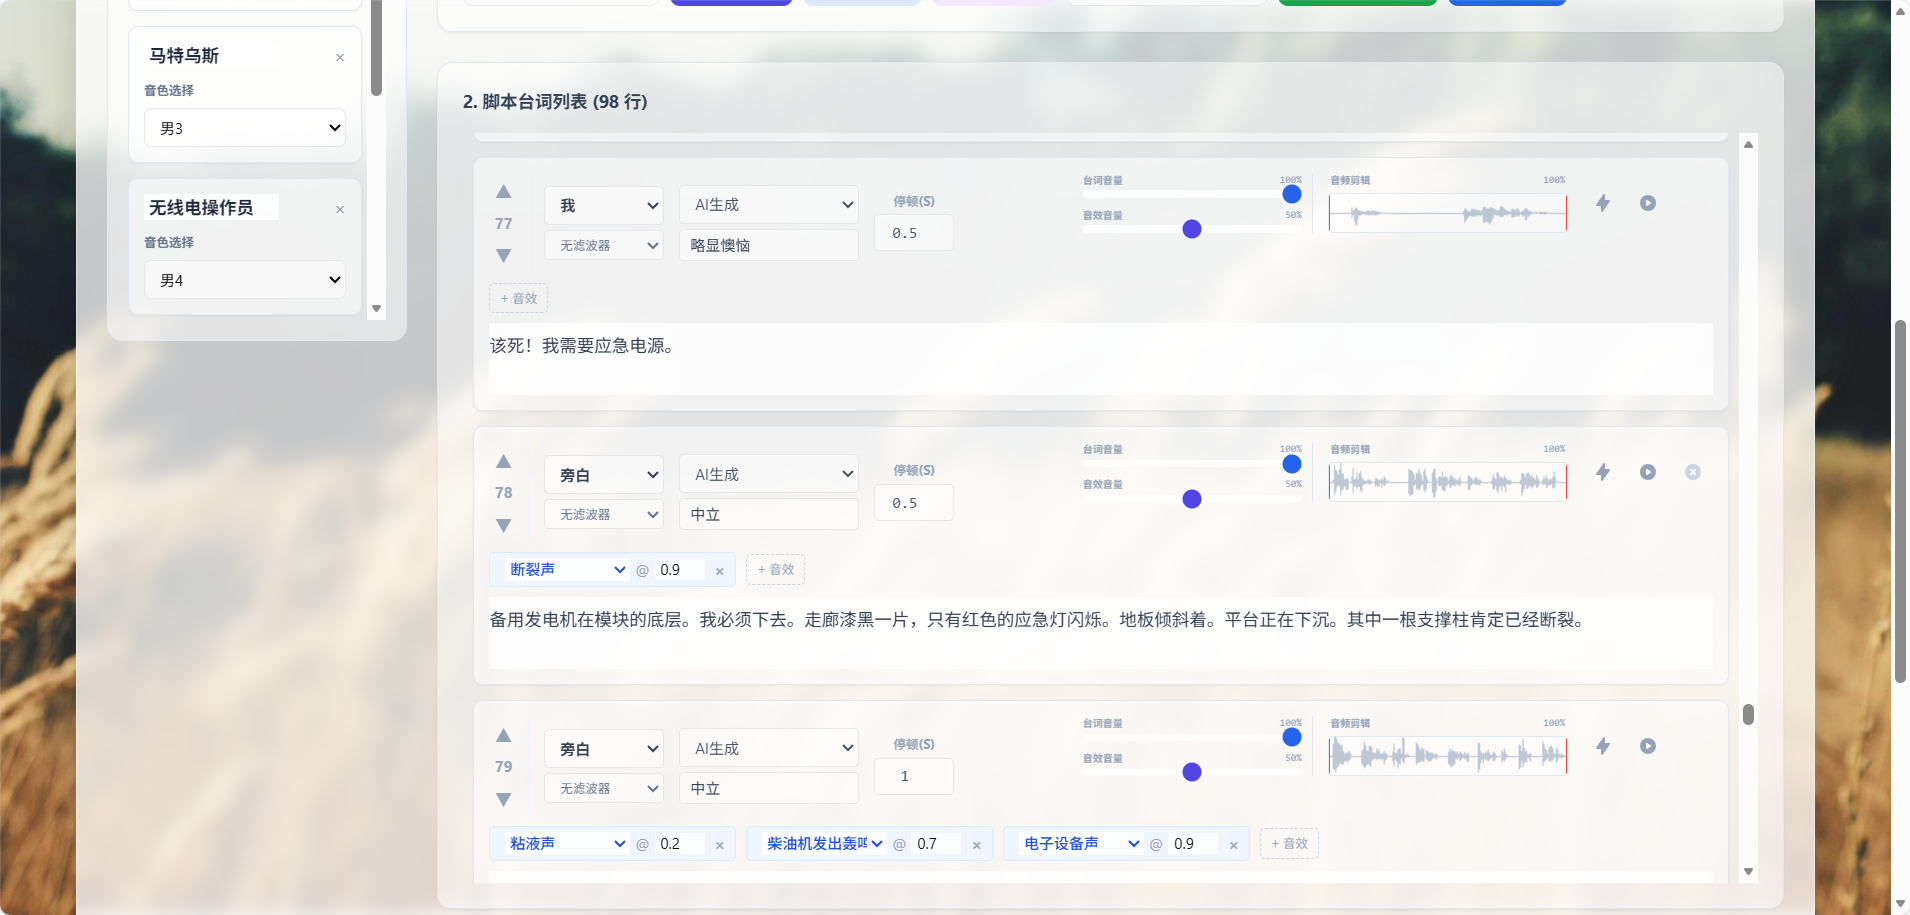
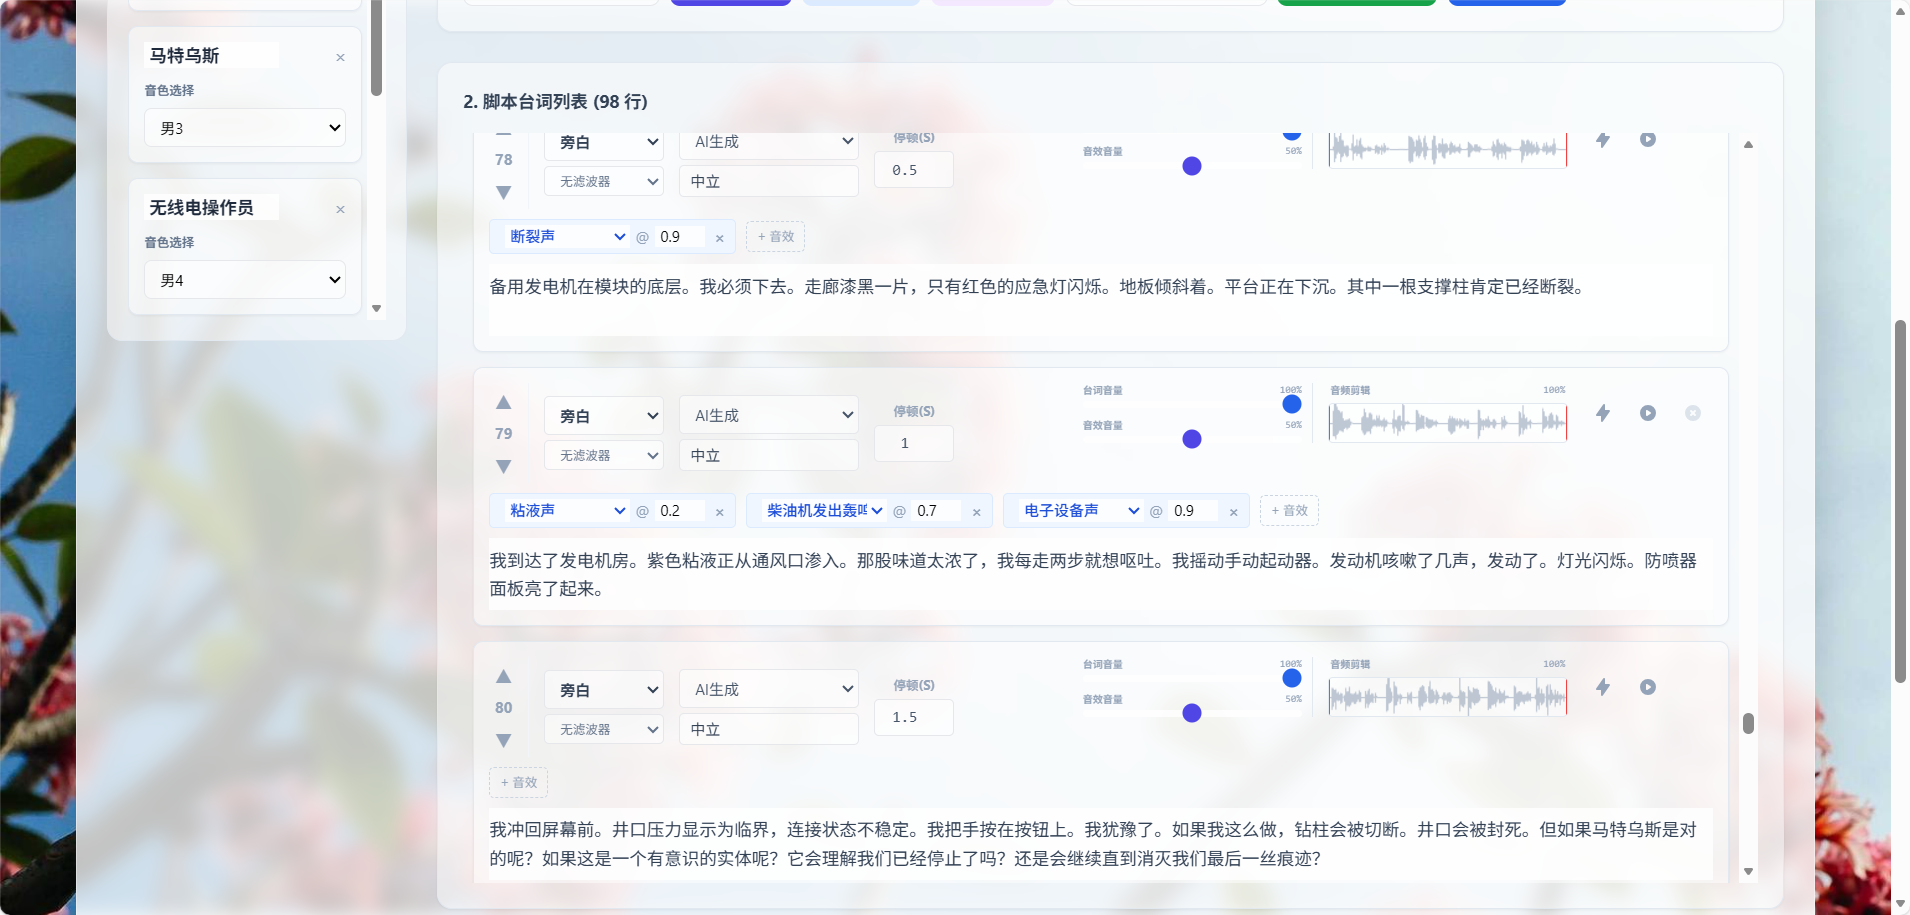
upgrade

diff --git a/index.html b/index.html
@@ -489,10 +489,17 @@
                         <button @click="triggerImport" :disabled="isExportingProject" class="px-3 py-1.5 bg-amber-100 text-amber-700 rounded-lg text-xs font-bold hover:bg-amber-200 transition-all flex items-center gap-1 disabled:opacity-50">
                             {{ isExportingProject ? '请等待...' : '导入完整工程' }}
                         </button>
+                        <button @click="triggerImportTxt" :disabled="isExportingProject" class="px-3 py-1.5 bg-slate-100 text-slate-700 rounded-lg text-xs font-bold hover:bg-slate-200 transition-all flex items-center gap-1 disabled:opacity-50">
+                            导入TXT
+                        </button>
+                        <button @click="exportSRT" :disabled="isExportingAudio" class="px-3 py-1.5 bg-teal-100 text-teal-700 rounded-lg text-xs font-bold hover:bg-teal-200 transition-all flex items-center gap-1 disabled:opacity-50 disabled:cursor-wait">
+                            导出SRT
+                        </button>
                         <button @click="exportAudio" :disabled="isExportingAudio" class="px-3 py-1.5 bg-purple-100 text-purple-700 rounded-lg text-xs font-bold hover:bg-purple-200 transition-all flex items-center gap-1 disabled:opacity-50 disabled:cursor-wait">
                             {{ isExportingAudio ? '⏳ 处理中...' : '导出音频' }}
                         </button>
                         <input type="file" ref="importFileRef" @change="handleImportFile" accept=".json" class="hidden">
+                        <input type="file" ref="importTxtRef" @change="handleImportTxt" accept=".txt" class="hidden">
                     </div>
                 </div>
 
@@ -981,6 +988,7 @@
                 let sequenceAbortController = null;
                 const isExportingAudio = ref(false);
                 const importFileRef = ref(null);
+                const importTxtRef = ref(null);
                 const isExportingProject = ref(false);
                 const exportStatus = ref('');
                 let bgmAudioNode = null;
@@ -2501,6 +2509,21 @@
                     reader.readAsText(file);
                 };
 
+                const triggerImportTxt = () => {
+                    importTxtRef.value.click();
+                };
+
+                const handleImportTxt = (event) => {
+                    const file = event.target.files[0];
+                    if (!file) return;
+                    const reader = new FileReader();
+                    reader.onload = (e) => {
+                        rawScript.value = e.target.result;
+                    };
+                    reader.readAsText(file);
+                    event.target.value = '';
+                };
+
                 // --- 导出音频逻辑 (WAV) ---
                 const exportAudio = async () => {
                     const dialogueLines = scriptLines.value.filter(l => l.type === 'dialogue');
@@ -2670,6 +2693,151 @@
                     } catch(e) {
                         console.error(e);
                         alert('导出失败: ' + e.message);
+                    } finally {
+                        isExportingAudio.value = false;
+                    }
+                };
+
+                const exportSRT = async () => {
+                    const dialogueLines = scriptLines.value.filter(l => l.type === 'dialogue');
+                    if (dialogueLines.length === 0) return alert('脚本为空');
+                    
+                    if (dialogueLines.some(l => !l.audioUrl)) {
+                        if (!confirm('部分台词尚未生成音频，导出字幕时时间轴可能不准确（将跳过未生成音频的行）。确定继续吗？')) return;
+                    }
+
+                    isExportingAudio.value = true; // 复用 loading 状态
+
+                    try {
+                        // 1. 加载所有台词音频以获取时长
+                        const audioMap = new Map();
+                        const loadPromises = dialogueLines.map(async (line) => {
+                            if (line.audioUrl) {
+                                const buffer = await loadAudioBuffer(line.audioUrl);
+                                if (buffer) audioMap.set(line.id, buffer);
+                            }
+                        });
+                        await Promise.all(loadPromises);
+
+                        let srtContent = '';
+                        let currentTime = 0;
+                        let counter = 1;
+
+                        const formatTime = (seconds) => {
+                            const date = new Date(0);
+                            date.setMilliseconds(seconds * 1000);
+                            const hh = String(Math.floor(seconds / 3600)).padStart(2, '0');
+                            const mm = String(date.getUTCMinutes()).padStart(2, '0');
+                            const ss = String(date.getUTCSeconds()).padStart(2, '0');
+                            const ms = String(date.getUTCMilliseconds()).padStart(3, '0');
+                            return `${hh}:${mm}:${ss},${ms}`;
+                        };
+
+                        // 辅助函数：智能切割长字幕
+                        const splitLongText = (text) => {
+                            if (!text) return [];
+                            
+                            // 1. 去除句末的逗号和句号 (保留问号感叹号等)
+                            let processed = text.replace(/[，。,.]\s*$/, '');
+
+                            // 2. 如果文本较短，直接返回
+                            if (processed.length <= 25) return [processed];
+
+                            // 3. 优先按标点符号切割
+                            // 句号(。)和点(.)：作为分隔符消耗掉 (不保留在句末)
+                            // 问号、感叹号等：保留在上一句
+                            // 逗号：不作为主分隔符，保留在句中 (除非后续长度强制切割)
+                            const parts = processed.split(/[。.]\s*|(?<=[！？；：!?])\s*/).filter(p => p.trim().length > 0);
+                            
+                            const finalParts = [];
+                            for (const p of parts) {
+                                // 3. 如果切割后的片段依然过长 (> 30字符)，强制按长度再次切割
+                                if (p.length > 30) {
+                                    let remaining = p;
+                                    while (remaining.length > 0) {
+                                        let cutIndex = 25;
+                                        if (remaining.length <= 25) {
+                                            cutIndex = remaining.length;
+                                        }
+                                        else {
+                                            // 尝试在逗号或空格处断句
+                                            // 优先找逗号
+                                            const lastComma = Math.max(remaining.lastIndexOf('，', 25), remaining.lastIndexOf(',', 25));
+                                            const lastSpace = remaining.lastIndexOf(' ', 25);
+                                            
+                                            if (lastComma > 10) {
+                                                cutIndex = lastComma; // 切在逗号处 (逗号会被丢弃)
+                                            } else if (lastSpace > 10) {
+                                                cutIndex = lastSpace;
+                                            }
+                                        }
+                                        finalParts.push(remaining.substring(0, cutIndex).trim());
+                                        
+                                        // 如果是在逗号处切的，要跳过这个逗号
+                                        if (remaining[cutIndex] === '，' || remaining[cutIndex] === ',') {
+                                            remaining = remaining.substring(cutIndex + 1).trim();
+                                        } else {
+                                            remaining = remaining.substring(cutIndex).trim();
+                                        }
+                                    }
+                                } else {
+                                    finalParts.push(p);
+                                }
+                            }
+                            return finalParts;
+                        };
+
+                        for (const line of scriptLines.value) {
+                            if (line.type === 'dialogue') {
+                                const buffer = audioMap.get(line.id);
+                                if (buffer) {
+                                    const trimStart = line.trimStart || 0;
+                                    const trimEnd = line.trimEnd || 1;
+                                    const duration = buffer.duration * (trimEnd - trimStart);
+                                    const totalDuration = duration;
+                                    
+                                    const startTime = currentTime + 0.05; // 对应 exportAudio 的 0.05s 偏移
+                                    
+                                    // 获取切割后的字幕片段
+                                    const textSegments = splitLongText(line.text);
+                                    const totalLength = textSegments.reduce((acc, cur) => acc + cur.length, 0);
+                                    
+                                    let segmentStartTime = startTime;
+
+                                    if (totalLength > 0) {
+                                        for (const segment of textSegments) {
+                                            // 按字符长度比例分配时间
+                                            const segmentRatio = segment.length / totalLength;
+                                            const segmentDuration = totalDuration * segmentRatio;
+                                            const segmentEndTime = segmentStartTime + segmentDuration;
+
+                                            srtContent += `${counter}\n`;
+                                            srtContent += `${formatTime(segmentStartTime)} --> ${formatTime(segmentEndTime)}\n`;
+                                            srtContent += `${segment}\n\n`;
+
+                                            counter++;
+                                            segmentStartTime = segmentEndTime;
+                                        }
+                                    }
+                                    
+                                    currentTime = startTime + totalDuration;
+                                }
+                                currentTime += (line.break_duration || 0);
+                            }
+                        }
+
+                        const blob = new Blob([srtContent], { type: 'text/plain' });
+                        const url = URL.createObjectURL(blob);
+                        const a = document.createElement('a');
+                        a.href = url;
+                        a.download = `Unitale字幕文件_${Date.now()}.srt`;
+                        document.body.appendChild(a);
+                        a.click();
+                        document.body.removeChild(a);
+                        URL.revokeObjectURL(url);
+                    } catch (e) {
+                        console.error(e);
+                        alert('导出SRT失败: ' + e.message);
                     } finally {
                         isExportingAudio.value = false;
                     }
@@ -3401,7 +3569,8 @@
                     drawWaveform, startDragTrim, // Exported for template
                     generateAllLines, isGeneratingAll,
                     moveLineUp, moveLineDown,
-                    exportScriptState, triggerImport, handleImportFile, importFileRef, exportAudio, isExportingAudio, 
+                    exportScriptState, triggerImport, handleImportFile, importFileRef, exportAudio, isExportingAudio,
+                    exportSRT, triggerImportTxt, handleImportTxt, importTxtRef,
                     isExportingProject, exportStatus,
                     playScriptSequentially, stopScriptSequentially, isSequencePlaying, currentSequenceIndex,
 
